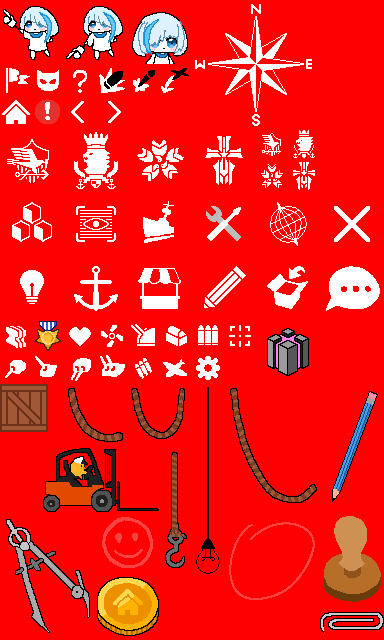
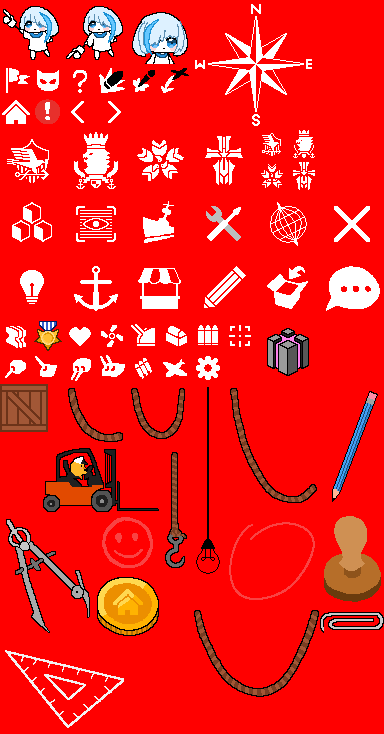
two new props: big top rope and triangle ruler

diff --git a/src/menus/equipment_menu.py b/src/menus/equipment_menu.py
@@ -317,6 +317,11 @@ class EquipmentMenu:
         overlay_pencil_rect = overlay_pencil_sprite.get_rect()
         overlay_pencil_rect.right = self.blueprint_page.right + Box.WIDTH/4 # TODO alignment
         overlay_pencil_rect.bottom = self.blueprint_page.bottom
+
+        overlay_ruler_sprite = DataFiles.sprites["user_interface"]["overlay_ruler"]
+        overlay_ruler_rect = overlay_ruler_sprite.get_rect()
+        overlay_ruler_rect.midbottom = overlay_pencil_rect.bottomleft
+        surface.blit(overlay_ruler_sprite, overlay_ruler_rect)
         surface.blit(overlay_pencil_sprite, overlay_pencil_rect)
 
         overlay_compass_sprite = DataFiles.sprites["user_interface"]["overlay_compass"]
@@ -337,9 +342,15 @@ class EquipmentMenu:
         depot_decoration_top = self.equipment_depot.top - Box.WIDTH/8
         top_rope_sprite = DataFiles.sprites["user_interface"]["top_rope"]
         top_rope_rect = top_rope_sprite.get_rect()
-        top_rope_rect.centerx = self.equipment_depot.centerx + Box.WIDTH
+        top_rope_rect.left = self.equipment_depot.centerx + Box.WIDTH/2
         top_rope_rect.top = depot_decoration_top
         surface.blit(top_rope_sprite, top_rope_rect)
+
+        big_top_rope_sprite = DataFiles.sprites["user_interface"]["big_top_rope"]
+        big_top_rope_rect = big_top_rope_sprite.get_rect()
+        big_top_rope_rect.right = self.equipment_depot.centerx - Box.WIDTH/2
+        big_top_rope_rect.top = depot_decoration_top
+        surface.blit(big_top_rope_sprite, big_top_rope_rect)
 
         rope_hook_sprite = DataFiles.sprites["user_interface"]["rope_hook"]
         rope_hook_rect = rope_hook_sprite.get_rect()

diff --git a/src/menus/port_menu.py b/src/menus/port_menu.py
@@ -1033,6 +1033,11 @@ class PortMenu:
         overlay_pencil_rect = overlay_pencil_sprite.get_rect()
         overlay_pencil_rect.right = self.blueprint_page.right + Box.WIDTH/4 # TODO alignment
         overlay_pencil_rect.bottom = self.blueprint_page.bottom + Box.HEIGHT/2
+
+        overlay_ruler_sprite = DataFiles.sprites["user_interface"]["overlay_ruler"]
+        overlay_ruler_rect = overlay_ruler_sprite.get_rect()
+        overlay_ruler_rect.center = overlay_pencil_rect.midleft
+        surface.blit(overlay_ruler_sprite, overlay_ruler_rect)
         surface.blit(overlay_pencil_sprite, overlay_pencil_rect)
 
         overlay_compass_sprite = DataFiles.sprites["user_interface"]["overlay_compass"]
@@ -1114,9 +1119,15 @@ class PortMenu:
 
         top_rope_sprite = DataFiles.sprites["user_interface"]["top_rope"]
         top_rope_rect = top_rope_sprite.get_rect()
-        top_rope_rect.centerx = self.warehouse_overlay.centerx
+        top_rope_rect.left = self.warehouse_overlay.centerx + Box.WIDTH/4
         top_rope_rect.top = warehouse_decoration_top
         surface.blit(top_rope_sprite, top_rope_rect)
+
+        big_top_rope_sprite = DataFiles.sprites["user_interface"]["big_top_rope"]
+        big_top_rope_rect = big_top_rope_sprite.get_rect()
+        big_top_rope_rect.right = self.warehouse_overlay.centerx
+        big_top_rope_rect.top = warehouse_decoration_top
+        surface.blit(big_top_rope_sprite, big_top_rope_rect)
 
         rope_hook_sprite = DataFiles.sprites["user_interface"]["rope_hook"]
         rope_hook_rect = rope_hook_sprite.get_rect()
